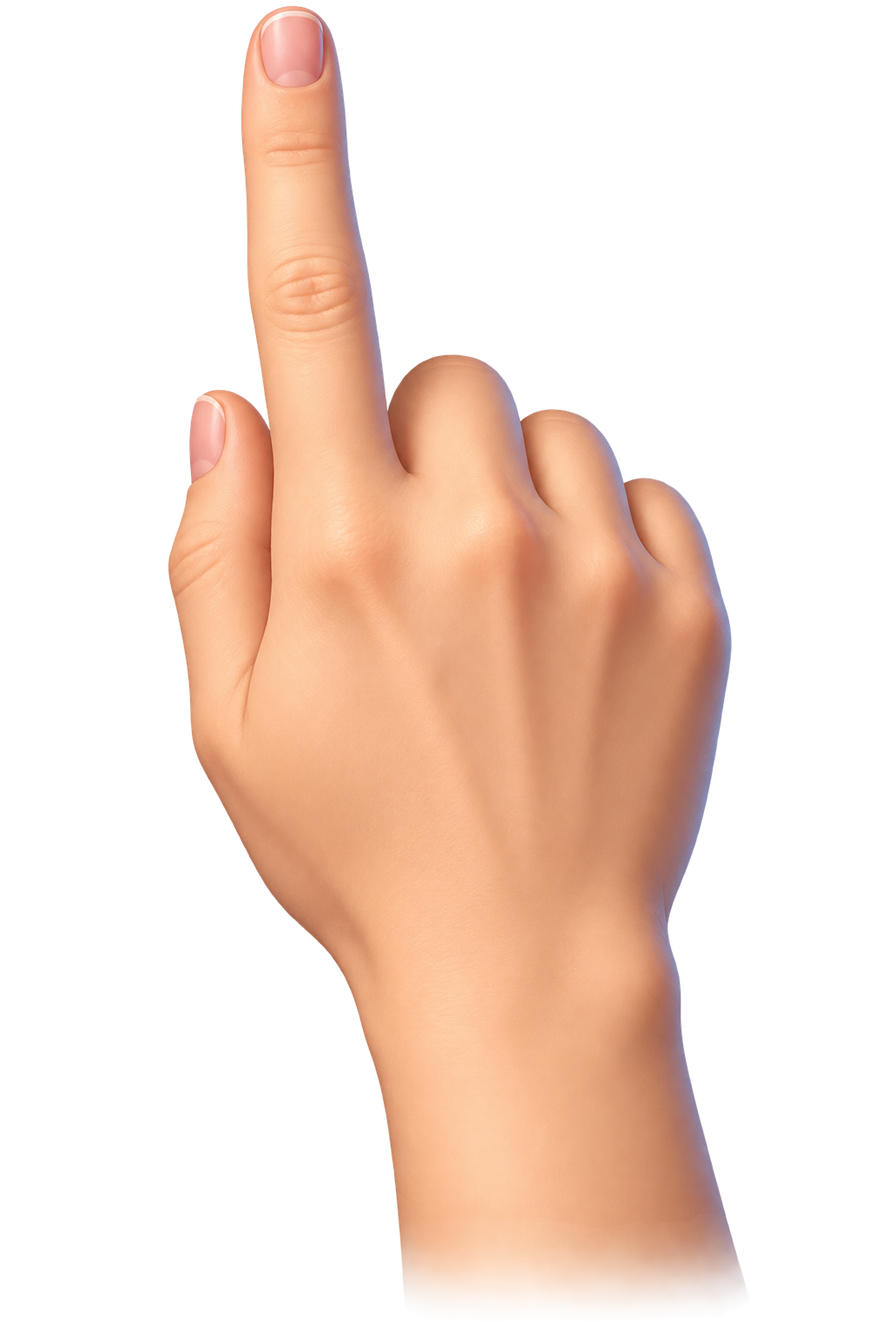
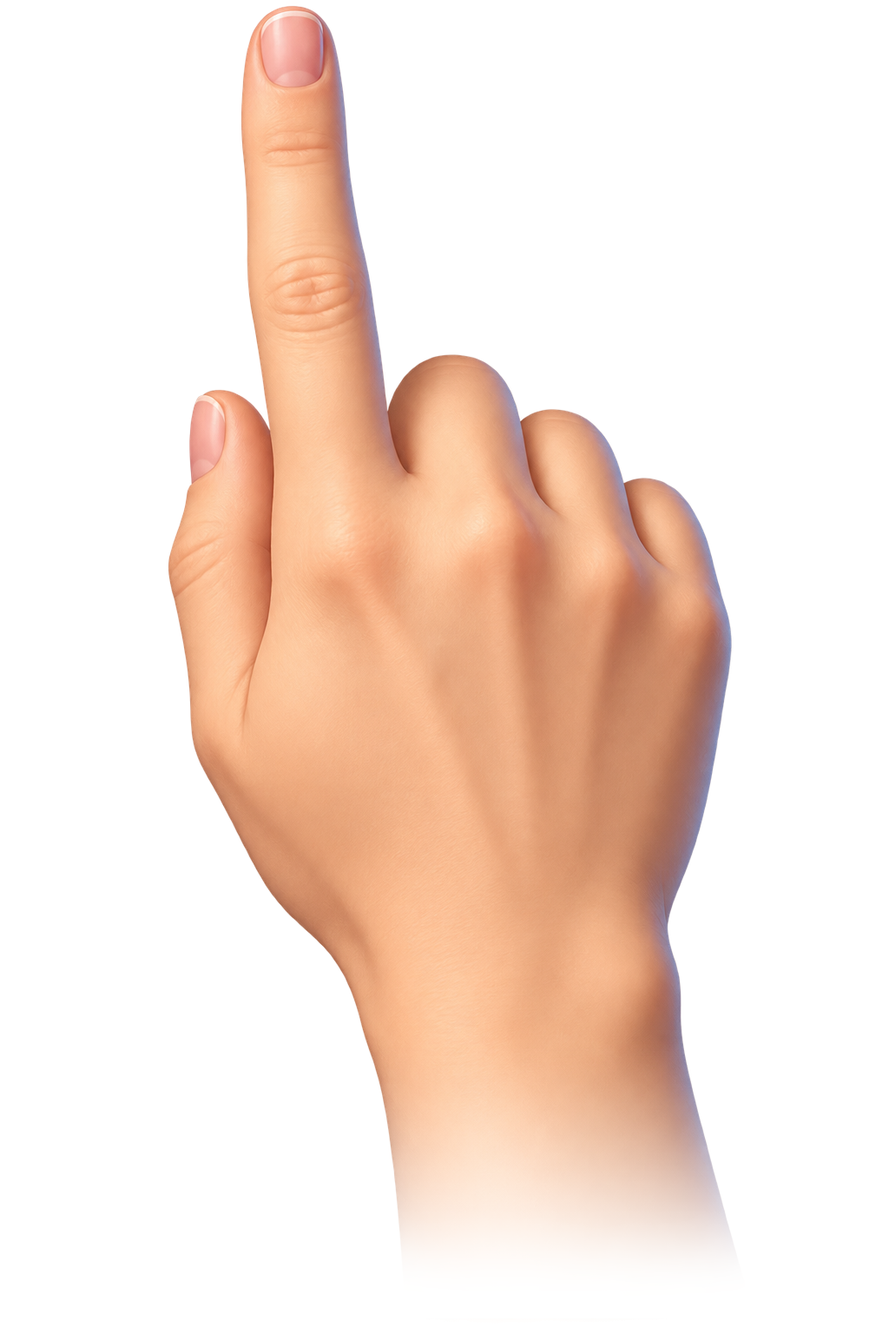
gate B: timings, aspect-aware layout, hit-stop, comb reveal polish, faint smile, tappable locks, endcard

Changed region(s): [[0.4375, 0.8125, 0.8438, 1.0]]

diff --git a/live/scene.js b/live/scene.js
@@ -28,7 +28,7 @@
   const panel = (slot, x, y, w, h, c0, c1, a = 0.85) => { L.rrect(x, y, w, h, Math.min(h / 2, 40), c0, c1, a); L.uiBox(slot, x, y, w, h, 4); };
   const bubble = (x, y, r, a, hot = 1, tail = null) => { L.glow(x, y, r * 1.55, [1, 0.95, 0.5], 0.35 * a * hot, 2.2);
     L.shadow(x + 5, y + 12, r * 1.08, r * 1.0, 0.32 * a);
-    if (tail) { const an = Math.atan2(tail[1] - y, tail[0] - x), ts = r * 0.52, tx = x + Math.cos(an) * r * 0.98, ty = y + Math.sin(an) * r * 0.98;      // tail points at Mia
+    if (tail) { const an = Math.atan2(tail[1] - y, tail[0] - x), ts = r * 0.66, tx = x + Math.cos(an) * r * 1.0, ty = y + Math.sin(an) * r * 1.0;      // tail points at Mia
       L.solid(tx - ts * 0.6, ty - ts * 0.6, ts * 1.2, ts * 1.2, [1, 0.8, 0.25], an + Math.PI / 4, ts * 0.6, ts * 0.6, a); L.solid(tx - ts / 2, ty - ts / 2, ts, ts, [1, 1, 1], an + Math.PI / 4, ts / 2, ts / 2, a); }
     L.rrect(x - r - 5, y - r - 5, 2 * r + 10, 2 * r + 10, r + 5, [1, 0.86, 0.32], [0.9, 0.6, 0.12], a);                     // golden rim
     L.rrect(x - r, y - r, 2 * r, 2 * r, r, [1, 1, 1], [0.86, 0.9, 1], a); };
@@ -47,7 +47,7 @@
     const shelter = ST.cut >= 0 && GT >= ST.cut, reveal = ph === 'reveal', rt = reveal ? GT - ST.phaseT : 0, warm = reveal ? SS(0, 1.5, rt) : 0, choice = ST.choice || 'comb';
     const win = choice === 'window', wg = warm * (win ? 0.5 : 0.08), snowOn = reveal && win ? 1 - SS(0, 1, rt) : 1;   // a repaired window stops the draft + snow; the other wishes leave the room cold
     const bq = bd && ph === 'board' ? ease(clamp((GT - ST.phaseT) / K.BOARD_IN, 0, 1)) : bd && reveal ? 1 - ease(clamp((rt - 0.05) / 0.35, 0, 1)) : 0, heroA = ended ? 0 : 1 - bq;   // board covers the room → the hero steps back
-    ZF = reveal ? 1 + 0.07 * SS(0, 1.4, rt) : 1;
+    ZF = reveal ? 1 + (choice === 'comb' ? 0.12 : 0.07) * SS(0, 1.4, rt) : 1;   // the comb's change is small: push in harder
     // ---- trauma shake from recent events ----
     let tr = 0; for (const e of ST.ev) { const a = GT - e.t; if (a < 0) continue;
       if (e.k === 'slam' && a < 0.5) tr = Math.max(tr, 1.1 * (1 - a / 0.5)); if (e.k === 'blast' && a < 0.4) tr = Math.max(tr, 0.8 * (1 - a / 0.4)); if (e.k === 'win' && a < 0.3) tr = Math.max(tr, 0.5 * (1 - a / 0.3)); }
@@ -72,6 +72,7 @@
       hero('hero_sad', cx, bot, sad * heroA);
       if (reveal && choice === 'comb') hero('hero_comb', cx, bot, SS(0.5, 1.1, rt) * heroA);
       if (reveal && choice === 'dress') hero('hero_dress', cx, bot, SS(0.5, 1.1, rt) * heroA);
+      if (reveal && K.SMILE) hero(choice === 'comb' ? 'hero_comb_smile' : choice === 'dress' ? 'hero_dress_smile' : 'hero_sad_smile', cx, bot, SS(2.0, 2.6, rt) * heroA);   // after the fix she lets out a faint, relieved smile
       if (reveal && choice === 'window' && has('window_patch')) { const [px0, py0] = imgPt('bg_room', Z.patchRect[0], Z.patchRect[1]), [px1, py1] = imgPt('bg_room', Z.patchRect[2], Z.patchRect[3]);
         const [x1, y1, w1, h1] = zr(px0 + OX, py0 + OY, px1 - px0, py1 - py0); L.sprite('window_patch', x1, y1, { w: w1, h: h1, u: { alpha: SS(0.5, 1.1, rt) } }); }
       if (!(reveal && win)) for (let j = 0; j < 3; j++) { const q = (GT * 0.9 + j / 3) % 1; L.puff(cx - 20 + 25 * q, bot - 655 - 90 * q, 14 + 28 * q, [1, 1, 1], 0.4 * (1 - q), j + 60); }   // breath puffs [ART: at her mouth]
@@ -94,7 +95,7 @@
           if (n === choice) { x += (GOALP[0] - x) * ease(q); y += (GOALP[1] - y) * ease(q); k = (1 + 0.25 * Math.sin(Math.PI * Math.min(1, q * 2))) * (1 - 0.7 * q); hot = 1.6; } else k = 1 - q; }
         if (k <= 0.01) return; bubble(x, y, b.r * k, 1, hot, ph === 'choice' ? [HERO[0], HERO[1] - 700] : null); spr(GOALTEX[n], x, y, Z.icon[0] * k, Z.icon[1] * k); });
       if (ph === 'board') { const q = (GT - ST.phaseT) / 0.55; if (q < 1) sparks(UI.bubbles[choice].x, UI.bubbles[choice].y, q, 12, 190, [1, 0.95, 0.6], 30, 3); }
-      if (ph === 'choice') { const b = UI.bubbles.comb, q = (GT * 1.3) % 1, down = q > 0.15 && q < 0.7;
+      if (ph === 'choice') { const b = UI.bubbles[K.PICK], q = (GT * 1.3) % 1, down = q > 0.15 && q < 0.7;
         if (GT - ST.phaseT > 0.5) handAt(b.x + 30, b.y + 50 + (down ? 8 : 0), down); }
     }
 
@@ -130,15 +131,15 @@
         else if (a < 0.75) bump = Math.max(bump, 1 - (a - 0.6) / 0.15); }
       const shown = Math.min(K.GOAL, Math.max(0, ST.got - inflight)), txt = shown + '/' + K.GOAL, gp = UI.goal, gs = 1 + 0.1 * bump;
       L.rrect(gp.x + (1 - gs) * gp.w / 2 - 7, gp.y + oy - (gs - 1) * gp.h / 2 - 7, gp.w * gs + 14, gp.h * gs + 14, 47, [0.62, 0.38, 0.16], [0.42, 0.24, 0.08], 0.98);       // brown plank rim
-      panel('goal', gp.x + (1 - gs) * gp.w / 2, gp.y + oy - (gs - 1) * gp.h / 2, gp.w * gs, gp.h * gs, [0.96, 0.86, 0.66], [0.80, 0.60, 0.36], 0.97);
+      (bq > 0.6 ? panel : (sl, x, y, w, h, c0, c1, al) => L.rrect(x, y, w, h, 40, c0, c1, al))('goal', gp.x + (1 - gs) * gp.w / 2, gp.y + oy - (gs - 1) * gp.h / 2, gp.w * gs, gp.h * gs, [0.96, 0.86, 0.66], [0.80, 0.60, 0.36], 0.97);
       spr(GOALTEX[choice], GOALP[0], GOALP[1] + oy, Z.tile[0] * 0.9 * gs, Z.tile[1] * 0.9 * gs);
-      L.label('goaln', txt, gp.x + 170, gp.y + gp.h / 2 + oy, { size: Math.round(84 * gs), font: FONT, col: shown >= K.GOAL ? '#3fd02a' : '#ff7a1c', out: '#5a2300' });
+      L.label('goaln', txt, gp.x + 170, gp.y + gp.h / 2 + oy, { size: Math.round(84 * gs), font: FONT, col: shown >= K.GOAL ? '#3fd02a' : '#ff7a1c', out: '#5a2300', a: SS(0.6, 0.85, bq) });          // the panel's text leaves before the panel slides over the CTA bar
       if (bump > 0) L.glow(GOALP[0], GOALP[1] + oy, 120, [1, 0.9, 0.5], 0.5 * bump, 2.2);
       // tutorial hand: the demo finger, or after 2.5 s idle a ghost swipe of the best move
       if (ph === 'board' && bd.busy === 'idle' && bd.best) {
         let hx, hy, down = 0;
         if (ST.demo && ST.inp && ST.inp.press) { hx = ST.inp.px; hy = ST.inp.py; down = 1; }
-        else if (ST.demo || GT - Math.max(bd.idleSince, ST.lastIn) > K.HAND_IDLE) { const q = (GT * 0.9) % 1, u = SS(0.2, 0.75, q), [ax, ay] = SIM.cellXY(bd.best.a), [bx, by] = SIM.cellXY(bd.best.b);
+        else if (ST.demo || (ST.badStreak || 0) >= K.BAD_HINT || GT - Math.max(bd.idleSince, ST.lastIn) > K.HAND_IDLE) { const q = (GT * 0.9) % 1, u = SS(0.2, 0.75, q), [ax, ay] = SIM.cellXY(bd.best.a), [bx, by] = SIM.cellXY(bd.best.b);
           hx = ax + (bx - ax) * u; hy = ay + (by - ay) * u; down = q > 0.1 && q < 0.85; }
         if (hx !== undefined) handAt(hx, hy + oy, down); }
     }
@@ -149,9 +150,13 @@
       if (rt < 1.6) { const q = rt / 1.6, cx = sp[0], cy = sp[1], r = 60 + R0 * (1 - ease(q)), am = Math.sin(Math.PI * Math.min(1, q * 1.1));
         for (let j = 0; j < 18; j++) { const an = j / 18 * 6.283 + rt * 5; L.star(cx + Math.cos(an) * r, cy + Math.sin(an) * r * 0.8, 30, [1, 0.92, 0.55], am); }
         L.ring(cx, cy, r, r * 0.8, [1, 0.85, 0.5], 0.5 * am, 0.06); }
+      if (choice === 'comb' && rt > 0.5 && rt < 1.3) { const q = (rt - 0.5) / 0.8, hx = HERO[0], hy = HERO[1] - 640, off = -260 + 520 * ease(q), al = Math.sin(Math.PI * q);   // a bright brush stroke sweeps over the hair, then sparkles
+        for (let k = 0; k < 3; k++) L.solid(hx + off - 55 + k * 8, hy - 230, 110 - k * 30, 460, [1, 0.97, 0.85], 0.5, 55, 230, 0.34 * al * (k ? 1.4 : 1));
+        sparks(hx, hy, Math.min(1, q * 1.2), 16, 230, [1, 0.95, 0.7], 28, 11); }
       for (let j = 0; j < 9; j++) { const q = (rt * 0.45 + j / 9) % 1; L.star(sp[0] + (rnd(j, 2) - 0.5) * 300 + 24 * Math.sin(rt * 3 + j), sp[1] + 100 - 360 * q, 26, [1, 0.85, 0.5], Math.sin(Math.PI * q) * warm); }   // sparkles drifting up from it
       if (rt > 1.4) UI.ORDER.filter((n) => n !== choice).forEach((n, i) => { const b = UI.bubbles[n], k = popk((rt - 1.4 - 0.12 * i) / 0.3) * 0.85, y = b.y + 7 * Math.sin(GT * 3 + i), a = 0.95;
-        if (k <= 0.01) return; bubble(b.x, y, b.r * k, a, 0.25); spr(GOALTEX[n], b.x, y, Z.icon[0] * k, Z.icon[1] * k, { a: 0.4 }); lock(b.x + b.r * k * 0.55, y + b.r * k * 0.5, 1, k / 0.85); });
+        if (k <= 0.01) return; if (k > 0.5) S.hit.push({ id: 'cta', x: b.x - b.r, y: y - b.r, w: 2 * b.r, h: 2 * b.r });   // the locked wishes are tappable (curiosity → store)
+        bubble(b.x, y, b.r * k, a, 0.25); spr(GOALTEX[n], b.x, y, Z.icon[0] * k, Z.icon[1] * k, { a: 0.4 }); lock(b.x + b.r * k * 0.55, y + b.r * k * 0.5, 1, k / 0.85); });
     }
 
     // ===== captions + callouts =====
@@ -176,28 +181,28 @@
       S.hit.push({ id: 'cta', x: bx, y: by, w: bw, h: bh }); }
 
     // ===================== endcard =====================
-    if (ended) { const oy = (H - 1920) / 2, a = GT - ST.end, k = SS(0, 0.45, a), win = ST.endWhy === 'win', pop = (d) => popk((a - d) / 0.35);
-      if (win) L.solid(0, 0, W, H, [0.04, 0.06, 0.13], 0, 0, 0, 0.55 * k); else L.solid(0, 0, W, H, [0.03, 0.05, 0.12], 0, 0, 0, 0.7 * k);       // warm payoff stays warm; the world's hero is hidden (no ghost)
-      const si = pop(0.1); if (si > 0.01) { const ix = W / 2, iy = 175 + oy, r = 82 * si;                                                         // code-drawn app icon
+    if (ended) { const Y = (v) => v * H / 1920, a = GT - ST.end, k = SS(0, 0.45, a), win = ST.endWhy === 'win', pop = (d) => popk((a - d) / 0.35);
+      if (win) L.solid(0, 0, W, H, [0.10, 0.06, 0.04], 0, 0, 0, 0.30 * k); else L.solid(0, 0, W, H, [0.03, 0.05, 0.12], 0, 0, 0, 0.7 * k);       // warm payoff stays warm; the world's hero is hidden (no ghost)
+      const si = pop(0.1); if (si > 0.01) { const ix = W / 2, iy = Y(175), r = 82 * si;                                                         // code-drawn app icon
         L.shadow(ix, iy + 14, r * 1.1, r, 0.4); L.rrect(ix - r, iy - r, 2 * r, 2 * r, r * 0.36, [0.55, 0.78, 1], [0.2, 0.38, 0.85]);
         L.solid(ix - r * 0.42, iy - r * 0.05, r * 0.84, r * 0.62, [1, 0.97, 0.9], 0, 0, 0); L.solid(ix - r * 0.43, iy - r * 0.5, r * 0.62, r * 0.62, [0.95, 0.5, 0.25], Math.PI / 4, r * 0.31, r * 0.31);
         L.solid(ix - r * 0.1, iy + r * 0.18, r * 0.2, r * 0.38, [0.6, 0.38, 0.2], 0, 0, 0); L.star(ix + r * 0.55, iy - r * 0.55, r * 0.3, [1, 1, 1], 0.9); }
-      const s1 = pop(0.2); if (s1 > 0.01) { L.label('head', win ? 'ONE WISH GRANTED!' : 'MIA STILL NEEDS YOU!', W / 2, 330 + oy, { size: Math.round(72 * s1), font: FONT, col: '#ffffff', out: '#12305a', al: 0.5 });
-        L.label('logo', 'SNOWBOUND HOME', W / 2, 430 + oy, { size: Math.round(80 * s1), font: FONT, col: '#ffe066', out: '#3a2300', al: 0.5 });
-        L.label('tag', win ? 'Help Mia fix everything!' : 'Rebuild her home!', W / 2, 515 + oy, { size: 54, font: FONT, col: '#ffffff', out: '#12305a', al: 0.5, a: k }); }
-      const sm = pop(0.35); if (sm > 0.01) { const n = win ? (choice === 'dress' ? 'hero_dress' : choice === 'comb' ? 'hero_comb' : 'hero_sad') : 'hero_sad';
-        L.glow(W / 2, 860 + oy, 360, [1, 0.85, 0.4], win ? 0.22 : 0.1, 2.2); L.shadow(W / 2, 1115 + oy, 300 * sm, 40 * sm, 0.5); spr(n, W / 2, 850 + oy, 0, 530 * sm * (1 + 0.012 * Math.sin(t * 2.2)));
-        if (win) for (let j = 0; j < 8; j++) { const q = (t * 0.6 + j / 8) % 1; L.star(W / 2 + (rnd(j, 1) - 0.5) * 520, 1050 + oy - 480 * q, 22, [1, 0.92, 0.55], Math.sin(Math.PI * q) * k); } }
+      const s1 = pop(0.2); if (s1 > 0.01) { L.label('head', win ? 'ONE WISH GRANTED!' : 'MIA STILL NEEDS YOU!', W / 2, Y(330), { size: Math.round(72 * s1), font: FONT, col: '#ffffff', out: '#12305a', al: 0.5 });
+        L.label('logo', 'SNOWBOUND HOME', W / 2, Y(430), { size: Math.round(80 * s1), font: FONT, col: '#ffe066', out: '#3a2300', al: 0.5 });
+        L.label('tag', win ? 'Help Mia fix everything!' : 'Rebuild her home!', W / 2, Y(515), { size: 54, font: FONT, col: '#ffffff', out: '#12305a', al: 0.5, a: k }); }
+      const sm = pop(0.35); if (sm > 0.01) { const sf = win && K.SMILE ? '_smile' : '', n0 = win ? (choice === 'dress' ? 'hero_dress' : choice === 'comb' ? 'hero_comb' : 'hero_sad') : 'hero_sad', n = has(n0 + sf) ? n0 + sf : n0;
+        L.glow(W / 2, Y(900), 380, [1, 0.85, 0.4], win ? 0.22 : 0.1, 2.2); L.shadow(W / 2, Y(1245), 380 * sm, 46 * sm, 0.5); spr(n, W / 2, Y(900), 0, 680 * sm * (1 + 0.012 * Math.sin(t * 2.2)));
+        if (win) for (let j = 0; j < 8; j++) { const q = (t * 0.6 + j / 8) % 1; L.star(W / 2 + (rnd(j, 1) - 0.5) * 520, Y(1180) - 520 * q, 22, [1, 0.92, 0.55], Math.sin(Math.PI * q) * k); } }
       const s2 = pop(0.45); if (s2 > 0.01) { const st = win ? '6/6 ✓' : ST.got + '/' + K.GOAL, tw = L.labelW('stat', st, { size: 54, font: FONT }) + 70;
-        L.rrect(W / 2 - tw / 2, 1170 + oy - 46, tw, 92, 46, [0.12, 0.2, 0.1], [0.06, 0.12, 0.05], 0.8 * s2); L.uiBox('statp', W / 2 - tw / 2, 1170 + oy - 46, tw, 92, 4);
-        L.label('stat', st, W / 2, 1170 + oy, { size: Math.round(54 * s2), font: FONT, col: '#bff58a', out: '#173307', al: 0.5 }); }
-      const s3 = pop(0.7), pul = 1 + 0.045 * Math.sin(t * 6), bw = 640 * s3 * pul, bh = 170 * s3 * pul, bx = W / 2 - bw / 2, by = 1390 + oy - bh / 2;
-      if (s3 > 0.01) { L.glow(W / 2, 1390 + oy, 420, [1, 0.8, 0.3], 0.3, 2.2);
+        L.rrect(W / 2 - tw / 2, Y(1300) - 46, tw, 92, 46, [0.12, 0.2, 0.1], [0.06, 0.12, 0.05], 0.8 * s2); L.uiBox('statp', W / 2 - tw / 2, Y(1300) - 46, tw, 92, 4);
+        L.label('stat', st, W / 2, Y(1300), { size: Math.round(54 * s2), font: FONT, col: '#bff58a', out: '#173307', al: 0.5 }); }
+      const s3 = pop(0.7), pul = 1 + 0.045 * Math.sin(t * 6), bw = 640 * s3 * pul, bh = 170 * s3 * pul, bx = W / 2 - bw / 2, by = Y(1480) - bh / 2;
+      if (s3 > 0.01) { L.glow(W / 2, Y(1480), 420, [1, 0.8, 0.3], 0.3, 2.2);
         L.rrect(bx, by + 12, bw, bh, bh / 2, [0.15, 0.45, 0.10], [0.10, 0.35, 0.06]); L.rrect(bx, by, bw, bh, bh / 2, [0.55, 0.95, 0.40], [0.25, 0.72, 0.15]); L.uiBox('endcta', bx, by, bw, bh, 2);
         L.label('endcta', 'PLAY FREE', W / 2, by + bh / 2, { size: Math.round(86 * s3), font: FONT, col: '#ffffff', out: '#145a10', al: 0.5 });
         S.hit.push({ id: 'cta', x: bx, y: by, w: bw, h: bh }); }
-      if (a > 1.2) { L.label('replay', '↻ REPLAY', W / 2, 1620 + oy, { size: 46, font: FONT, col: '#ffffff', out: '#12305a', al: 0.5, a: SS(1.2, 1.6, a) });
-        S.hit.unshift({ id: 'replay', x: W / 2 - 170, y: 1580 + oy, w: 340, h: 80 }); }
+      if (a > 1.2) { L.label('replay', '↻ REPLAY', W / 2, Y(1710), { size: 46, font: FONT, col: '#ffffff', out: '#12305a', al: 0.5, a: SS(1.2, 1.6, a) });
+        S.hit.unshift({ id: 'replay', x: W / 2 - 170, y: Y(1670), w: 340, h: 80 }); }
       if (a > 0.6) S.hit.push({ id: 'cta', x: 0, y: 0, w: W, h: H }); }
   };
   const BY0 = () => UI.grid.y + UI.grid.h / 2;
@@ -206,6 +211,6 @@
   S.QA = () => {
     const at = (tt, o = {}) => Object.assign(JSON.parse(JSON.stringify(SIM.at(tt))), o);
     return { states: [['intro_a', at(0.9)], ['intro_b', at(1.8)], ['choice', at(3.2)], ['board', at(4.5)], ['swipe', at(5.0)], ['match', at(5.3)], ['reveal_a', at(7.4)],
-      ['reveal_b', at(8.9)], ['reveal_window', at(8.4, { choice: 'window' })], ['reveal_dress', at(8.4, { choice: 'dress' })], ['board_dress', at(5.3, { choice: 'dress' })], ['end', at(10.8)], ['goal_worst', at(5.3, { got: 99 })]], cycles: {}, sprites: {}, box: () => [0, 0, W, H] };
+      ['reveal_b', at(8.9)], ['reveal_window', at(8.4, { choice: 'window' })], ['reveal_dress', at(8.4, { choice: 'dress' })], ['board_dress', at(5.3, { choice: 'dress' })], ['reveal_smile', at(9.8)], ['end', at(11.5)], ['end_window', at(11.5, { choice: 'window' })], ['end_dress', at(11.5, { choice: 'dress' })], ['goal_worst', at(5.3, { got: 99 })]], cycles: {}, sprites: {}, box: () => [0, 0, W, H] };
   };
 })();

diff --git a/live/sim.js b/live/sim.js
@@ -9,8 +9,9 @@
   const K = {
     COLS: 5, ROWS: 6, CELL: 170, GOAL: 6, GOAL_BIAS: 0.30, GOAL_MIN: 3,        // grid, goal count, refill bias, min goal tiles kept on the board
     SWIPE_PX: 60, SWAP_T: 0.14, CLEAR_T: 0.18, FALL_G: 5200, BOUNCE: 0.22,
-    INTRO_CUT: 1.2, INTRO_END: 2.2, AUTO_PICK: 4, BOARD_IN: 0.7, HAND_IDLE: 2.5, WIN_DELAY: 0.35, REVEAL_T: 2.8,
-    END_MAX: 28, END_NO_INPUT: 12, END_IDLE: 10,
+    INTRO_CUT: 1.2, INTRO_END: 2.2, AUTO_PICK: 2.5, BOARD_IN: 0.7, HAND_IDLE: 2.5, WIN_DELAY: 0.35, REVEAL_T: 3.4,
+    PICK: 'comb', SMILE: 1, BAD_HINT: 2,                                         // hand + auto-pick target (A/B), faint smile in the final frames (A/B), bad swaps before the hand shows up
+    END_MAX: 22, END_NO_INPUT: 14, END_IDLE: 10,
     DEMO_CHOOSE: 3.5, DEMO_THINK: 0.55, DEMO_SWIPE: 0.4,
   };
   const N = K.COLS * K.ROWS, GOALK = 3;                                         // tile kinds: 0 leaf, 1 coin, 2 yarn, 3 GOAL (comb | window | dress)
@@ -20,13 +21,13 @@
   const START = ['YGYCL', 'LLGYC', 'LYYGL', 'CYLCG', 'CGGYG', 'LCGGL'];
 
   // ---------------- layout (shared by scene, smoke test and demo) ----------------
-  const BX = (W - K.COLS * K.CELL) / 2, BY = Math.round(H * 0.30), GW = K.COLS * K.CELL, GH = K.ROWS * K.CELL;
+  const BX = (W - K.COLS * K.CELL) / 2, BY = Math.max(Math.round(H * 0.27), Math.min(Math.round(H * 0.33), Math.round((H - K.ROWS * K.CELL) / 2 + 30))), GW = K.COLS * K.CELL, GH = K.ROWS * K.CELL;
   const cellXY = (i) => [BX + (i % K.COLS + 0.5) * K.CELL, BY + (Math.floor(i / K.COLS) + 0.5) * K.CELL];
   const cellAt = (x, y) => { const c = Math.floor((x - BX) / K.CELL), r = Math.floor((y - BY) / K.CELL); return c < 0 || r < 0 || c >= K.COLS || r >= K.ROWS ? -1 : r * K.COLS + c; };
   const UI = {
     grid: { x: BX, y: BY, w: GW, h: GH }, board: { x: BX - 24, y: BY - 24, w: GW + 48, h: GH + 48 },
     goal: { x: W / 2 - 250, y: BY - 24 - 190, w: 500, h: 150 },
-    bubbles: { window: { x: W * 0.50, y: H * 0.20, r: 135 }, comb: { x: W * 0.80, y: H * 0.32, r: 135 }, dress: { x: W * 0.22, y: H * 0.43, r: 135 } },
+    bubbles: { window: { x: W * 0.50, y: Math.max(H * 0.20, 460), r: 135 }, comb: { x: W * 0.80, y: H * 0.32, r: 135 }, dress: { x: W * 0.22, y: H * 0.43, r: 135 } },
     ORDER: ['window', 'comb', 'dress'], cellXY, cellAt,
   };
 
@@ -78,13 +79,14 @@
     bd.best = bestMove(kinds(bd.cells));
   }
   function beginClear(S, m) {
-    const bd = S.bd, t = S.t; bd.casc++; let ng = 0;
+    const bd = S.bd, t = S.t; bd.casc++; S.badStreak = 0; let ng = 0;
     for (let i = 0; i < N; i++) if (m.mark[i]) { const c = bd.cells[i]; c.clr = t;
       if (c.k === GOALK) { ng++; S.got++; S.money = S.earned = S.got; const [x, y] = cellXY(i); S.ev.push({ k: 'goal', t, x, y, n: S.got, i }); } }
     const [cx, cy] = centre(S, m.mark);
     const idx = [], kk = []; for (let i = 0; i < N; i++) if (m.mark[i]) { idx.push(i); kk.push(bd.cells[i].k); }   // for the scene's sparkles
     S.ev.push({ k: 'match', t, n: m.n, ng, casc: bd.casc, x: cx, y: cy, idx, kk });
     for (const b of m.blasts) S.ev.push({ k: 'blast', t, row: b.row, col: b.col, x: b.row !== undefined ? W / 2 : cellXY(b.col)[0], y: b.row !== undefined ? cellXY(b.row * K.COLS)[1] : BY + GH / 2 });
+    if (m.blasts.length) S.freeze = 0.06;                                      // hit-stop: the world holds for 60 ms on a line blast
     if (bd.casc > 1) S.ev.push({ k: 'cascade', t, n: bd.casc, x: cx, y: cy });
     bd.busy = 'clear'; bd.t0 = t;
   }
@@ -127,7 +129,7 @@
         cells[a].ox = (pb[0] - pa[0]) * e; cells[a].oy = (pb[1] - pa[1]) * e; cells[b].ox = (pa[0] - pb[0]) * e; cells[b].oy = (pa[1] - pb[1]) * e;
         if (u >= 1) { const k2 = kinds(cells); [k2[a], k2[b]] = [k2[b], k2[a]]; const m = findMatches(k2);
           if (m.n) { [cells[a], cells[b]] = [cells[b], cells[a]]; cells[a].ox = cells[a].oy = cells[b].ox = cells[b].oy = 0; S.moves++; bd.casc = 0; beginClear(S, m); }
-          else { bd.busy = 'back'; bd.t0 = t; const [x, y] = pa; S.ev.push({ k: 'bad', t, a, b, x, y }); } } break; }
+          else { bd.busy = 'back'; bd.t0 = t; const [x, y] = pa; S.badStreak = (S.badStreak || 0) + 1; S.ev.push({ k: 'bad', t, a, b, x, y }); } } break; }
       case 'back': { const { a, b } = bd.sw, pa = cellXY(a), pb = cellXY(b), f = 1 - e;
         cells[a].ox = (pb[0] - pa[0]) * f; cells[a].oy = (pb[1] - pa[1]) * f; cells[b].ox = (pa[0] - pb[0]) * f; cells[b].oy = (pa[1] - pb[1]) * f;
         if (t - bd.t0 >= K.SWAP_T) { cells[a].ox = cells[a].oy = cells[b].ox = cells[b].oy = 0; setIdle(S); } break; }
@@ -146,6 +148,7 @@
   }
 
   function step(S, inp) {
+    if (S.freeze > 0) { S.freeze -= DT; S.steps++; return S; }
     const t = S.t + DT; S.t = t; S.steps++;
     if (S.ev.length > 220) S.ev.splice(0, S.ev.length - 220);
     const press = !!inp.press, edge = press && !S.prevPress, rel = !press && S.prevPress; S.prevPress = press;
@@ -159,7 +162,7 @@
       let pick = '';
       if (edge && t - S.phaseT > 0.2) for (const n of UI.ORDER) { const b = UI.bubbles[n]; if (Math.hypot(inp.px - b.x, inp.py - b.y) <= b.r + 20) { pick = n; break; } }
       const auto = !pick && t - Math.max(S.phaseT, S.lastIn) > K.AUTO_PICK;      // nobody tapped: the comb is chosen so a passive viewer still sees the game
-      if (pick || auto) { S.choice = pick || 'comb'; S.auto = auto; S.phase = 'board'; S.phaseT = t; S.bd = createBoard(S); S.ev.push({ k: 'choose', t, kind: S.choice, auto }); }
+      if (pick || auto) { S.choice = pick || K.PICK; S.auto = auto; S.phase = 'board'; S.phaseT = t; S.bd = createBoard(S); S.ev.push({ k: 'choose', t, kind: S.choice, auto }); }
     } else if (S.phase === 'board') stepBoard(S, inp, edge, rel, press);
     else if (S.phase === 'reveal' && t - S.phaseT >= K.REVEAL_T) endGame(S, 'win');
     if (S.end < 0 && S.phase !== 'reveal' && !(S.bd && S.bd.busy === 'won')) {
@@ -173,7 +176,7 @@
   const scriptInput = (t, S) => {
     const inp = { press: 0, px: W / 2, py: H / 2 };
     if (S.end >= 0) return inp;
-    if (S.phase === 'choice') { const b = UI.bubbles.comb; inp.px = b.x; inp.py = b.y; if (t >= K.DEMO_CHOOSE && t < K.DEMO_CHOOSE + 0.15) inp.press = 1; }
+    if (S.phase === 'choice') { const b = UI.bubbles[K.PICK]; inp.px = b.x; inp.py = b.y; if (t >= K.DEMO_CHOOSE && t < K.DEMO_CHOOSE + 0.15) inp.press = 1; }
     else if (S.phase === 'board' && S.bd.busy === 'idle' && S.bd.best) {
       const u = (t - S.bd.idleSince - K.DEMO_THINK) / K.DEMO_SWIPE, [ax, ay] = cellXY(S.bd.best.a), [bx, by] = cellXY(S.bd.best.b), k = Math.max(0, Math.min(1, u));
       inp.px = ax + (bx - ax) * k; inp.py = ay + (by - ay) * k; if (u >= 0 && u <= 1.15) inp.press = 1;

diff --git a/tools/player_policies.js b/tools/player_policies.js
@@ -1,0 +1,46 @@
+// headless human-ish players against SIM: how long until the goal / endcard, and does anything get stuck
+const S = require('C:/Users/artemm/Documents/azuregames/new/live/sim.js');
+const U = S.UI, N = S.K.COLS * S.K.ROWS;
+function lcg(seed) { let a = seed >>> 0; return () => ((a = (Math.imul(a, 1664525) + 1013904223) >>> 0) / 4294967296); }
+
+// policy(p, t, rnd) → null or a gesture { kind:'tap'|'swipe', x0,y0,x1,y1, dur }
+function run(policy, seed, opt = {}) {
+  const p = S.spawn(0); p.rs = (p.rs + seed * 7919) | 0; const rnd = lcg(seed + 1);
+  let g = null, gEnd = 0, nextAt = opt.first || 3.0, idleAt = 0, maxT = 40;
+  while (p.t < maxT && p.end < 0) {
+    const t = p.t; let inp = { press: 0, px: 0, py: 0 };
+    if (!g && t >= nextAt) { g = policy(p, t, rnd); if (g) { g.t0 = t; gEnd = t + g.dur; } else nextAt = t + 0.3; }
+    if (g) { const u = Math.min(1, (t - g.t0) / g.dur); inp = { press: t < gEnd + 0.05 ? 1 : 0, px: g.x0 + (g.x1 - g.x0) * u, py: g.y0 + (g.y1 - g.y0) * u };
+      if (t >= gEnd + 0.05) { g = null; nextAt = t + (opt.gap || 1.2); } }
+    S.step(p, inp);
+  }
+  const ev = (k) => p.ev.filter((e) => e.k === k);
+  const w = ev('win')[0], gl = ev('goal');
+  return { win: w ? +w.t.toFixed(1) : null, end: +p.end.toFixed(1), why: p.endWhy, moves: p.moves, bad: ev('bad').length, shuf: ev('shuffle').length, got: p.got, firstGoal: gl[0] ? +gl[0].t.toFixed(1) : null };
+}
+const bubble = (n) => () => { const b = U.bubbles[n]; return { kind: 'tap', x0: b.x, y0: b.y, x1: b.x, y1: b.y, dur: 0.1 }; };
+const swipe = (a, b, dur = 0.3) => { const [ax, ay] = S.cellXY(a), [bx, by] = S.cellXY(b); return { kind: 'swipe', x0: ax, y0: ay, x1: bx, y1: by, dur }; };
+const best = (p) => (p.bd && p.bd.busy === 'idle' && p.bd.best) ? swipe(p.bd.best.a, p.bd.best.b) : null;
+const randomMove = (p, r) => { if (!(p.bd && p.bd.busy === 'idle')) return null; const a = Math.floor(r() * N), c = a % 5, row = Math.floor(a / 5), opts = []; if (c < 4) opts.push(a + 1); if (c > 0) opts.push(a - 1); if (row < 5) opts.push(a + 5); if (row > 0) opts.push(a - 5); return swipe(a, opts[Math.floor(r() * opts.length)]); };
+const policies = {
+  // picks a bubble then plays the best move each time
+  good: (name) => (p, t, r) => p.phase === 'choice' ? bubble(name)() : best(p),
+  // random swaps
+  random: (name) => (p, t, r) => p.phase === 'choice' ? bubble(name)() : randomMove(p, r),
+  // first move deliberately wasted (random), then best
+  badfirst: (name) => (p, t, r) => p.phase === 'choice' ? bubble(name)() : (p.moves === 0 && !p.ev.some((e) => e.k === 'bad') && p.bd.busy === 'idle' ? randomMove(p, r) : best(p)),
+};
+
+const validMoves = (p) => { const kd = S.kinds(p.bd.cells), out = []; for (let i = 0; i < N; i++) { const c = i % 5, r = Math.floor(i / 5); for (const j of [c < 4 ? i + 1 : -1, r < 5 ? i + 5 : -1]) { if (j < 0 || kd[i] === kd[j]) continue; const k2 = kd.slice(); [k2[i], k2[j]] = [k2[j], k2[i]]; const m = S.findMatches(k2); if (m.n) { let g = 0; for (let x = 0; x < N; x++) if (m.mark[x] && k2[x] === 3) g++; out.push([i, j, g, m.n]); } } } return out; };
+policies.validrandom = (name) => (p, t, r) => { if (p.phase === 'choice') return bubble(name)(); if (!(p.bd && p.bd.busy === 'idle')) return null; const v = validMoves(p); if (!v.length) return null; const m = v[Math.floor(r() * v.length)]; return swipe(m[0], m[1]); };
+policies.mixed = (name) => (p, t, r) => { if (p.phase === 'choice') return bubble(name)(); if (!(p.bd && p.bd.busy === 'idle')) return null; const v = validMoves(p); if (!v.length) return null; if (r() < 0.5) return best(p); const m = v[Math.floor(r() * v.length)]; return swipe(m[0], m[1]); };
+const rows = [];
+for (const [pn, mk] of Object.entries(policies)) for (const choice of ['comb']) {
+  const rs = []; for (let seed = 1; seed <= (pn === 'good' ? 1 : 30); seed++) rs.push(run(mk(choice), seed, pn === 'good' ? {} : { gap: 1.4 }));
+  const wins = rs.filter((x) => x.win !== null), wt = wins.map((x) => x.win).sort((a, b) => a - b);
+  rows.push(`${pn.padEnd(8)} ${choice.padEnd(6)} wins ${wins.length}/${rs.length}  winT median ${wt[Math.floor(wt.length / 2)]} p90 ${wt[Math.floor(wt.length * 0.9)]} max ${wt[wt.length - 1]}  moves(avg) ${(rs.reduce((a, x) => a + x.moves, 0) / rs.length).toFixed(1)}  endMax ${Math.max(...rs.map((x) => x.end))}  shuffles ${rs.reduce((a, x) => a + x.shuf, 0)}  ends: ${[...new Set(rs.map((x) => x.why))].join(',')}`);
+}
+// slow thinker + idle-hand + passive + tap-select
+const slow = run(policies.good('comb'), 1, { gap: 3.0, first: 5.0 }); rows.push('slow(3s/move) ' + JSON.stringify(slow));
+const idle = run((p) => (p.phase === 'choice' ? bubble('comb')() : null), 1, { first: 3 }); rows.push('taps bubble then idle ' + JSON.stringify(idle));
+console.log(rows.join('\n'));

diff --git a/live/assets.js b/live/assets.js
@@ -1,1 +1,1 @@
-window.ASSETS = {"bg_outside": {"w": 1024, "h": 1536, "crop": [0, 0, 1024, 1536], "scale": 1.0}, "bg_room": {"w": 1024, "h": 1536, "crop": [0, 0, 1024, 1536], "scale": 1.0}, "door": {"w": 737, "h": 1503, "crop": [141, 6, 878, 1509], "scale": 1.0}, "hand": {"w": 673, "h": 1510, "crop": [190, 2, 863, 1512], "scale": 1.0}, "hero_comb": {"w": 856, "h": 1008, "crop": [85, 10, 941, 1018], "scale": 1.0}, "hero_dress": {"w": 856, "h": 1018, "crop": [85, 1, 941, 1019], "scale": 1.0}, "hero_sad": {"w": 855, "h": 1015, "crop": [85, 3, 940, 1018], "scale": 1.0}, "hero_snow": {"w": 1479, "h": 915, "crop": [44, 35, 1523, 950], "scale": 1.0}, "tile_coin": {"w": 364, "h": 379, "crop": [2, 2, 366, 381], "scale": 1.0}, "tile_comb": {"w": 304, "h": 405, "crop": [2, 2, 306, 407], "scale": 1.0}, "tile_dress": {"w": 415, "h": 392, "crop": [2, 2, 417, 394], "scale": 1.0}, "tile_leaf": {"w": 368, "h": 391, "crop": [2, 2, 370, 393], "scale": 1.0}, "tile_window": {"w": 340, "h": 392, "crop": [2, 2, 342, 394], "scale": 1.0}, "tile_yarn": {"w": 435, "h": 371, "crop": [2, 2, 437, 373], "scale": 1.0}, "window_patch": {"w": 1024, "h": 1024, "crop": [0, 0, 1024, 1024], "scale": 1.0}};
+window.ASSETS = {"bg_outside": {"w": 1024, "h": 1536, "crop": [0, 0, 1024, 1536], "scale": 1.0}, "bg_room": {"w": 1024, "h": 1536, "crop": [0, 0, 1024, 1536], "scale": 1.0}, "door": {"w": 737, "h": 1503, "crop": [141, 6, 878, 1509], "scale": 1.0}, "hand": {"w": 660, "h": 1446, "crop": [190, 2, 850, 1448], "scale": 1.0}, "hero_comb": {"w": 856, "h": 1008, "crop": [85, 10, 941, 1018], "scale": 1.0}, "hero_comb_smile": {"w": 858, "h": 1010, "crop": [84, 9, 942, 1019], "scale": 1.0}, "hero_dress": {"w": 856, "h": 1018, "crop": [85, 1, 941, 1019], "scale": 1.0}, "hero_dress_smile": {"w": 857, "h": 1019, "crop": [84, 0, 941, 1019], "scale": 1.0}, "hero_sad": {"w": 855, "h": 1015, "crop": [85, 3, 940, 1018], "scale": 1.0}, "hero_sad_smile": {"w": 856, "h": 1019, "crop": [85, 0, 941, 1019], "scale": 1.0}, "hero_snow": {"w": 1479, "h": 915, "crop": [44, 35, 1523, 950], "scale": 1.0}, "tile_coin": {"w": 364, "h": 379, "crop": [2, 2, 366, 381], "scale": 1.0}, "tile_comb": {"w": 304, "h": 405, "crop": [2, 2, 306, 407], "scale": 1.0}, "tile_dress": {"w": 415, "h": 392, "crop": [2, 2, 417, 394], "scale": 1.0}, "tile_leaf": {"w": 368, "h": 391, "crop": [2, 2, 370, 393], "scale": 1.0}, "tile_window": {"w": 340, "h": 392, "crop": [2, 2, 342, 394], "scale": 1.0}, "tile_yarn": {"w": 435, "h": 371, "crop": [2, 2, 437, 373], "scale": 1.0}, "window_patch": {"w": 1024, "h": 1024, "crop": [0, 0, 1024, 1024], "scale": 1.0}};

diff --git a/live/sizes.js b/live/sizes.js
@@ -3,7 +3,7 @@
 // Anchors of things painted INTO a background are image fractions [x, y] of that background (cover-fit by the scene), measured from the art.
 window.SIZES = {
   tile: [150, 150],         // a board tile fits inside this box (aspect kept) within its 170 px cell
-  hero_sad: [0, 880], hero_comb: [0, 880], hero_dress: [0, 880], hero_snow: [900, 0],
+  hero_sad: [0, 880], hero_comb: [0, 880], hero_dress: [0, 880], hero_sad_smile: [0, 880], hero_comb_smile: [0, 880], hero_dress_smile: [0, 880], hero_snow: [900, 0],
   icon: [170, 170], hand: [0, 270],
   doorBox: [0.585, 0.185, 0.825, 0.505],       // the lit arch opening in bg_outside: [left, top, right, bottom] — the door leaf covers it
   winAt: [0.35, 0.20],                         // centre of the broken window in bg_room

diff --git a/study/critique/gateB.md b/study/critique/gateB.md
@@ -1,0 +1,21 @@
+# Gate B critique - Snowbound Home (feel + economy). Measured: node sim + tools/player_policies.js, packed build at 360x640 / 390x844 / 412x915, verify.sh = VERIFY OK (61 fps, 0.88 MB)
+## 1. Scores (1-10)
+hook 7 | clarity 8 | feel/juice 7 | economy 7 | payoff-per-choice 6 (window 8, dress 8, comb 4) | HUD/CTA/endcard 7 | tech readiness 7 | overall 7
+(a) Timing is good for UA: first goal 4.8 s median (valid players), 6.6 s (bad first move); win 8.5 s med / 12 p90; endcard 11.7 s med. Hook <=3 s OK (hero + line at t0.35, bubbles 2.2 s). Slightly SHORT vs 15-30 s: wow at 7-10 s, endcard before 12 s.
+(b) Economy: 9/30 goal tiles at start, 9 valid moves (6 yield 3-4 goals, 3 yield 0) -> any valid-move player wins 40/40 in 2.7-3.3 moves: that is "easy", not "medium", and there is no move limit = no tension. Fine for an ad, but a blind swiper (82% of adjacent pairs are invalid) wins only 10/40, makes 11.4 bad swaps and sees the endcard at 31 s median (breaks "endcard by 30 s ALWAYS"). Lose state does lead to CTA ("MIA STILL NEEDS YOU!", got/6).
+(c) Window = sunset + curtain + boarded sill (clear, strongest); dress = pink dress (clear); comb = smoother hair only (at 390 px width the head is ~60 px: reads weakest). The sad face is NOT a problem for "only its own thing" and sells the cliffhanger; a faint relieved smile on the ENDCARD hero only (not in the reveal) would add emotional close without breaking the rule (test it, see A/B 3).
+(d) CTA: persistent bar + green pill always visible; endcard CTA 640x170 pulses, whole screen taps after 0.6 s, replay small: good. Store URLs are still placeholders (com.example..., id0000000000).
+(e) Tall 19.5:9 (H 2337-2340): board anchored at 0.30H leaves ~440 view-px dead band above the CTA bar, HUD top-heavy. 16:9 (H 1920): window bubble top (y 249) is clipped by the caption pill (bottom 306). Hero/bubbles/board/endcard otherwise hold at both.
+(f) Tells left: hand sprite forearm ends in a hard cut (choice screen); chair still hovers (no contact in the reveal); FONT is still the Arial Black chain (Roboto on Android); two bubble tails still read as stray triangles; locked bubbles are decoration only.
+
+## 2. Top 5 fixes (impact order)
+1. WHAT sim.js step() choice/board + scene.js l.141 hand. WHY passive viewer: 0 goals, endcard at 12.0 s; tap-skip then idle: 0 goals, end 10.4 s; the ghost hand appears at ~9.4 s and 2.6 s later the ad ends with no reward (no reveal ever seen). CHANGE: K.ASSIST=1.2: if board idle and S.moves==0 and no input for HAND_IDLE+1.2 s, SIM auto-runs bestMove (startSwap) and repeats each 1.5 s until GOAL; AUTO_PICK 4->2.5; END_NO_INPUT 12->18 while an assist run is active. Passive reveal view 0% -> 100%.
+2. WHAT sim.js AUTO pick (l.161 'comb') + scriptInput/scene.js handAt on the choice screen + scene.js reveal comb. WHY the default/hint/idle path always lands on the weakest payoff (comb). CHANGE: K.PICK='dress' (or 'window') for hand + auto-pick; comb reveal: add a bright brush-stroke sweep (additive white diagonal band over the hair, 0.5 s), hair sparkle burst, and 1.15x hero scale-up at rt 0.5-1.0 so the change is visible at 390 px.
+3. WHAT sim.js step() + scene.js hand. WHY blind swipers get no hint (every input resets lastIn, setIdle resets idleSince) and end at 31 s. CHANGE: S.badStreak (+1 on 'bad', 0 on match); hand shown when badStreak>=2; after 3 bad swaps auto-assist; END_MAX 28->22. Lose endcard <=25 s, flail win rate up from 25%.
+4. WHAT scene.js endcard (l.180,188). WHY overlay 0.55 navy dims the room (window patch turns brown-grey in tall_window_4end.png) so the strongest payoff is hidden exactly at the CTA; window variant shows unchanged hero_sad; bottom 25% empty on tall. CHANGE: overlay 0.30 warm [0.10,0.06,0.04] for win; hero 530->680 px; window: keep window_patch + warm glow behind the heading; place CTA at H*0.70, replay at H*0.82; endcard hero gets the faint-smile variant (A/B 3).
+5. WHAT sim.js UI.board BY (l.23) + UI.bubbles + scene.js reveal (REVEAL_T 2.8, l.153, hit list). WHY tall dead band; 16:9 caption overlap; locked wishes visible only 1.4 s and not tappable. CHANGE: BY = round((H-GH)/2 + 30) clamped 0.27H..0.33H; bubble window y = max(0.20H, 340); REVEAL_T 3.6; push S.hit for the two locked bubbles -> 'cta' with a pulse ("unlock" curiosity tap); mask the hand wrist with a soft fade/shorter crop; swap store URLs and embed one OFL font.
+
+## 3. A/B hypotheses
+A. GOAL_9 (SIM.K.GOAL 6->9). Measured validrandom/badfirst: moves 3.1->5.7, win 8.5->13.8 s (p90 18), endcard 11.7->17 s, 40/40 wins still. H: more invested play lifts install intent/CTR on the endcard; risk small completion drop. K.GOAL=12 is too long (win 19 s, end 22 s).
+B. PICK_DRESS vs PICK_WINDOW vs comb (hand + auto-pick target, see fix 2). H: pointing the finger at a high-contrast payoff raises payoff-seen quality; expect CTR up on the endcard and a higher reveal-reaction rate; compare window vs dress on completion + CTR.
+C. SMILE_END (endcard hero swaps to a faint-smile head of the chosen variant, reveal unchanged) + K.ASSIST on/off. H: emotional close raises endcard CTA taps by a few %, assist raises passive-cohort reveal view from 0% to 100% and endcard-to-install.

diff --git a/study/PLAN.md b/study/PLAN.md
@@ -156,12 +156,25 @@ Code-drawn: bubbles, glow, padlock, board frame, goal panel, ribbon captions, li
       (alpha IoU 0.97) → shimmer during the 0.6 s cross-fade; fix by compositing only head/clothes onto hero_sad in prep, or regen
       with "chair pixel-identical"; (c) embed an OFL display font (Lilita One) — needs a download, ask the user; (d) real store
       URLs in tools/build.json (placeholders now); (e) 60 ms hit-stop on blast (needs a sim freeze).
-- [ ] 4. FEEL (Gate B): play it on the live page (serve.sh, `?ad=1`), tune K headless; check a manual player who makes
-      a bad first move still wins by ~15 s; passive endcard ≤ 12 s; fps ≥ 60 at 390×844. `verify.sh all` green →
-      critic Gate B → max 2 fix rounds. Commit.
+- [x] 4. DONE 2026-10-09 (Sonnet 5.5). verify.sh OK (qa 16 states, 1.24 MB per network, 61 fps), critic Gate B (study/critique/gateB.md,
+      overall 7/10; hook 7, clarity 8, juice 7, economy 7, payoff-per-choice 6 — comb weakest, window/dress 8).
+      MEASURED (tools/player_policies.js, tools/perf_probe.mjs): valid-move and bad-first-move players win in 8.5 s median / 12 p90 / 15.6 max
+      (30/30); slow player (3 s per move) wins at 16 s; tap-bubble-then-idle → endcard 13.2 s; passive viewer → endcard 14.0 s; blind
+      swipers (82 % of pairs invalid) win 6/30, endcard ≤ 28.7 s. Perf: board tiles instanced via BATCH (all 30 = 1 draw): draws board idle
+      122 → 53, clear+fall 173 → 104; at 4× CPU throttle clear+fall 53.6 → 58.2 fps; no console errors.
+      DONE from Gate B: AUTO_PICK 4 → 2.5, END_NO_INPUT 12 → 14, END_MAX 28 → 22, REVEAL_T 2.8 → 3.4; BY follows the aspect (0.27–0.33 H);
+      window bubble y ≥ 460 (no caption overlap on 16:9); hand appears after 2 bad swaps (S.badStreak); 60 ms hit-stop on line blasts
+      (S.freeze); comb reveal = stronger push-in (1.12) + brush-stroke sweep + hair sparkles; bubble tails bigger; hand wrist faded;
+      locked wishes are tappable (→ store); endcard: warm light overlay 0.30, hero 680 px, layout scales with H (Y()), window patch stays
+      visible; FAINT SMILE (user idea): hero_*_smile (3 edits, expression only) cross-fades in at reveal t 2.0–2.6 s and stays on the
+      endcard (K.SMILE=1); goal panel text leaves before the panel slides out (no overlap with the CTA bar).
+      NOT done on purpose: K.ASSIST auto-solve for passive viewers (the board must not play itself — decision of the plan; ask the user);
+      font embed (needs a download → ask); real store URLs (placeholders com.example.snowboundhome / id0000000000 → ask).
+      New K switches for A/B: K.PICK ('comb'|'dress'|'window' = hand + auto-pick target), K.SMILE (0|1), K.GOAL (6|9), K.BAD_HINT.
 - [ ] 5. VARIANTS + delivery: rewrite variants/*.json for THIS game (template ones are Timber Rush keys):
-      `short_goal` (GOAL 4 — shorter loop), `no_story` (skip INTRO, start in CHOICE — is the story worth 2 s?),
-      `no_choice` (comb only, bubbles skipped — does the choice add engagement?), `cta_copy` ("SAVE MIA" vs "PLAY FREE").
+      `long_goal` (K.GOAL 9: 5.7 moves, win 13.8 s — more invested play), `pick_dress` / `pick_window` (K.PICK: the hand and the
+      auto-pick point at a stronger payoff than the comb), `sad_end` (K.SMILE 0: does the faint smile help the endcard?),
+      `no_story` (skip INTRO, start in CHOICE — is the story worth 2 s?), `cta_copy` ("SAVE MIA" vs "PLAY FREE").
       `python tools/build_playable.py --variant all`; README.md case study (refs described, not shipped; hypotheses;
       sizes; fps; critic scores; known gaps). Commit.
 - [ ] 6. PUBLISH — ASK THE USER FIRST: public repo `bankaino/snowbound-home-playable` + Pages from /docs
